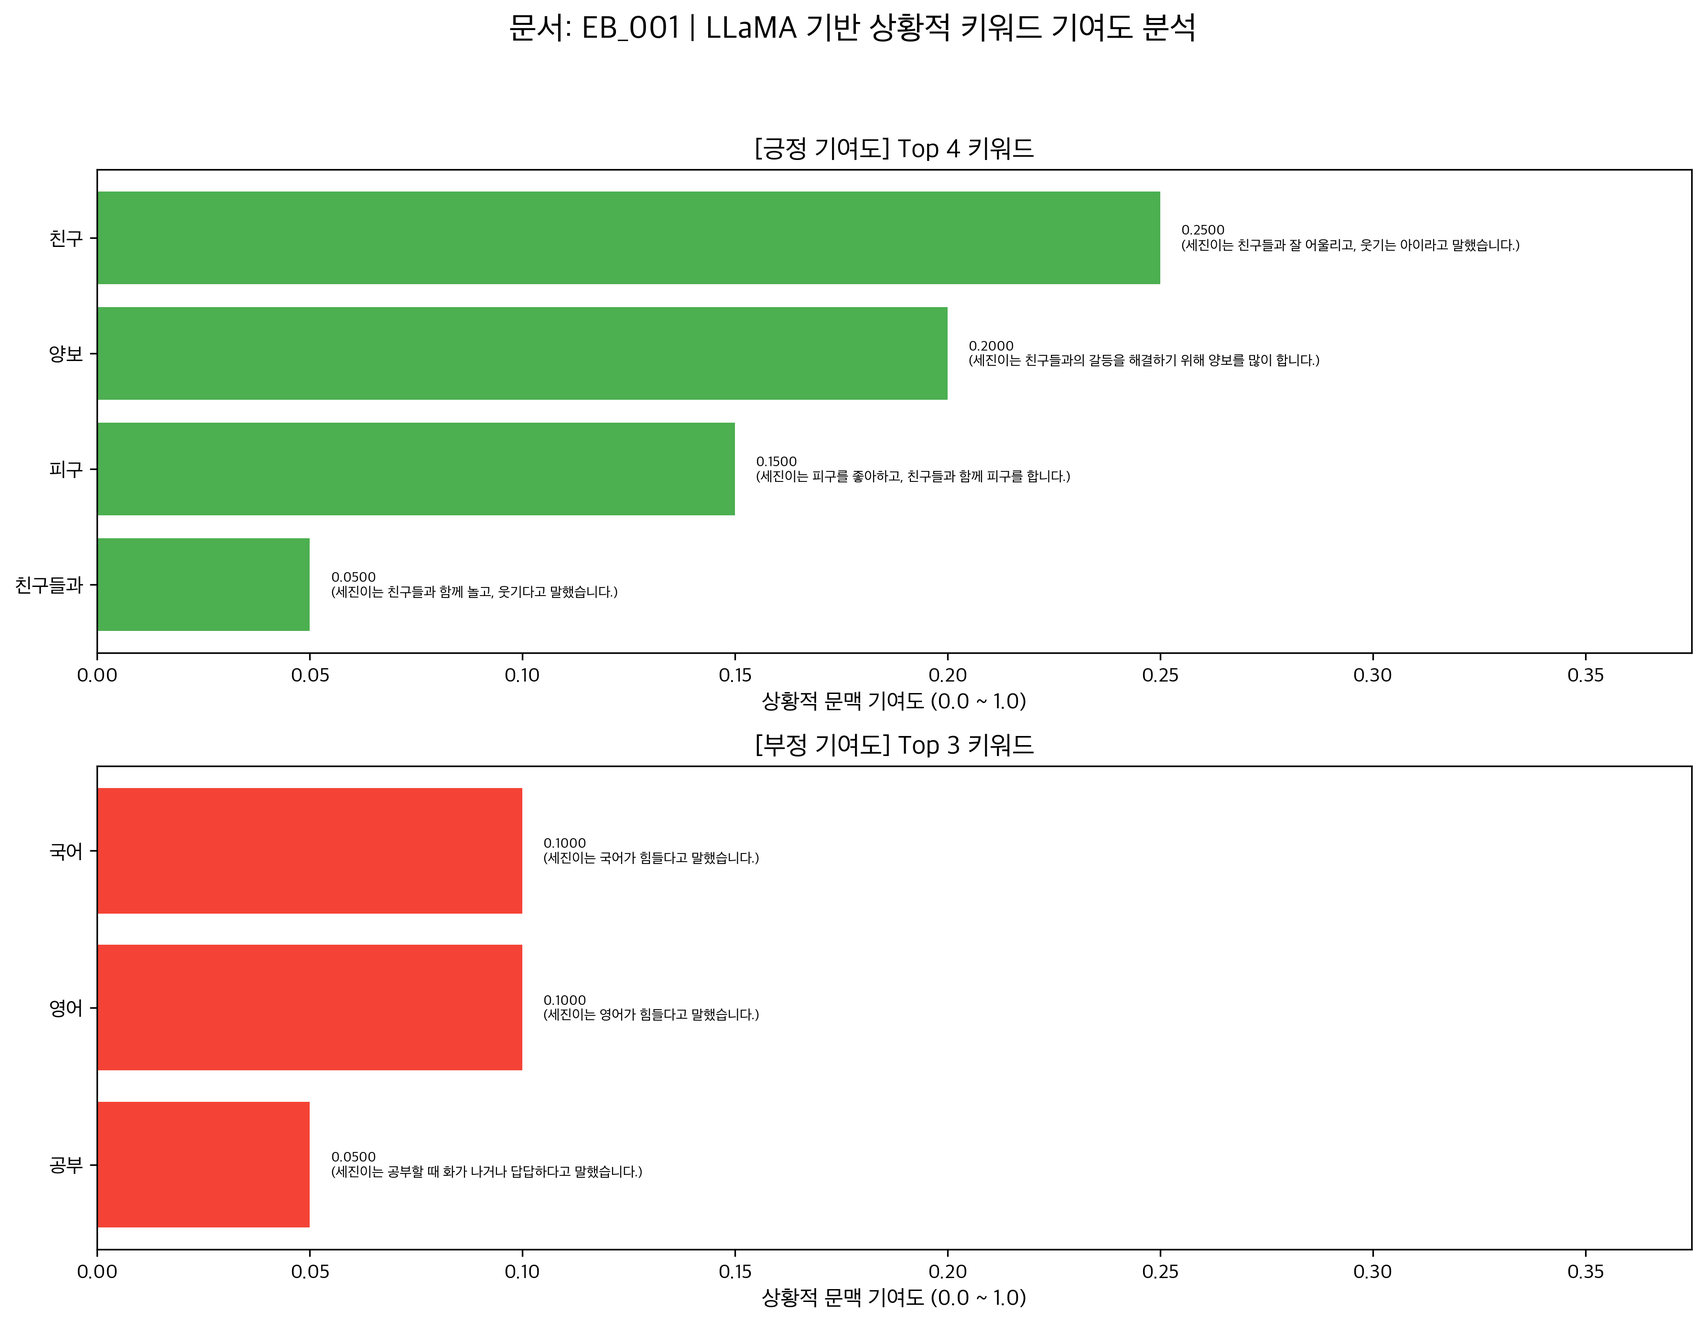
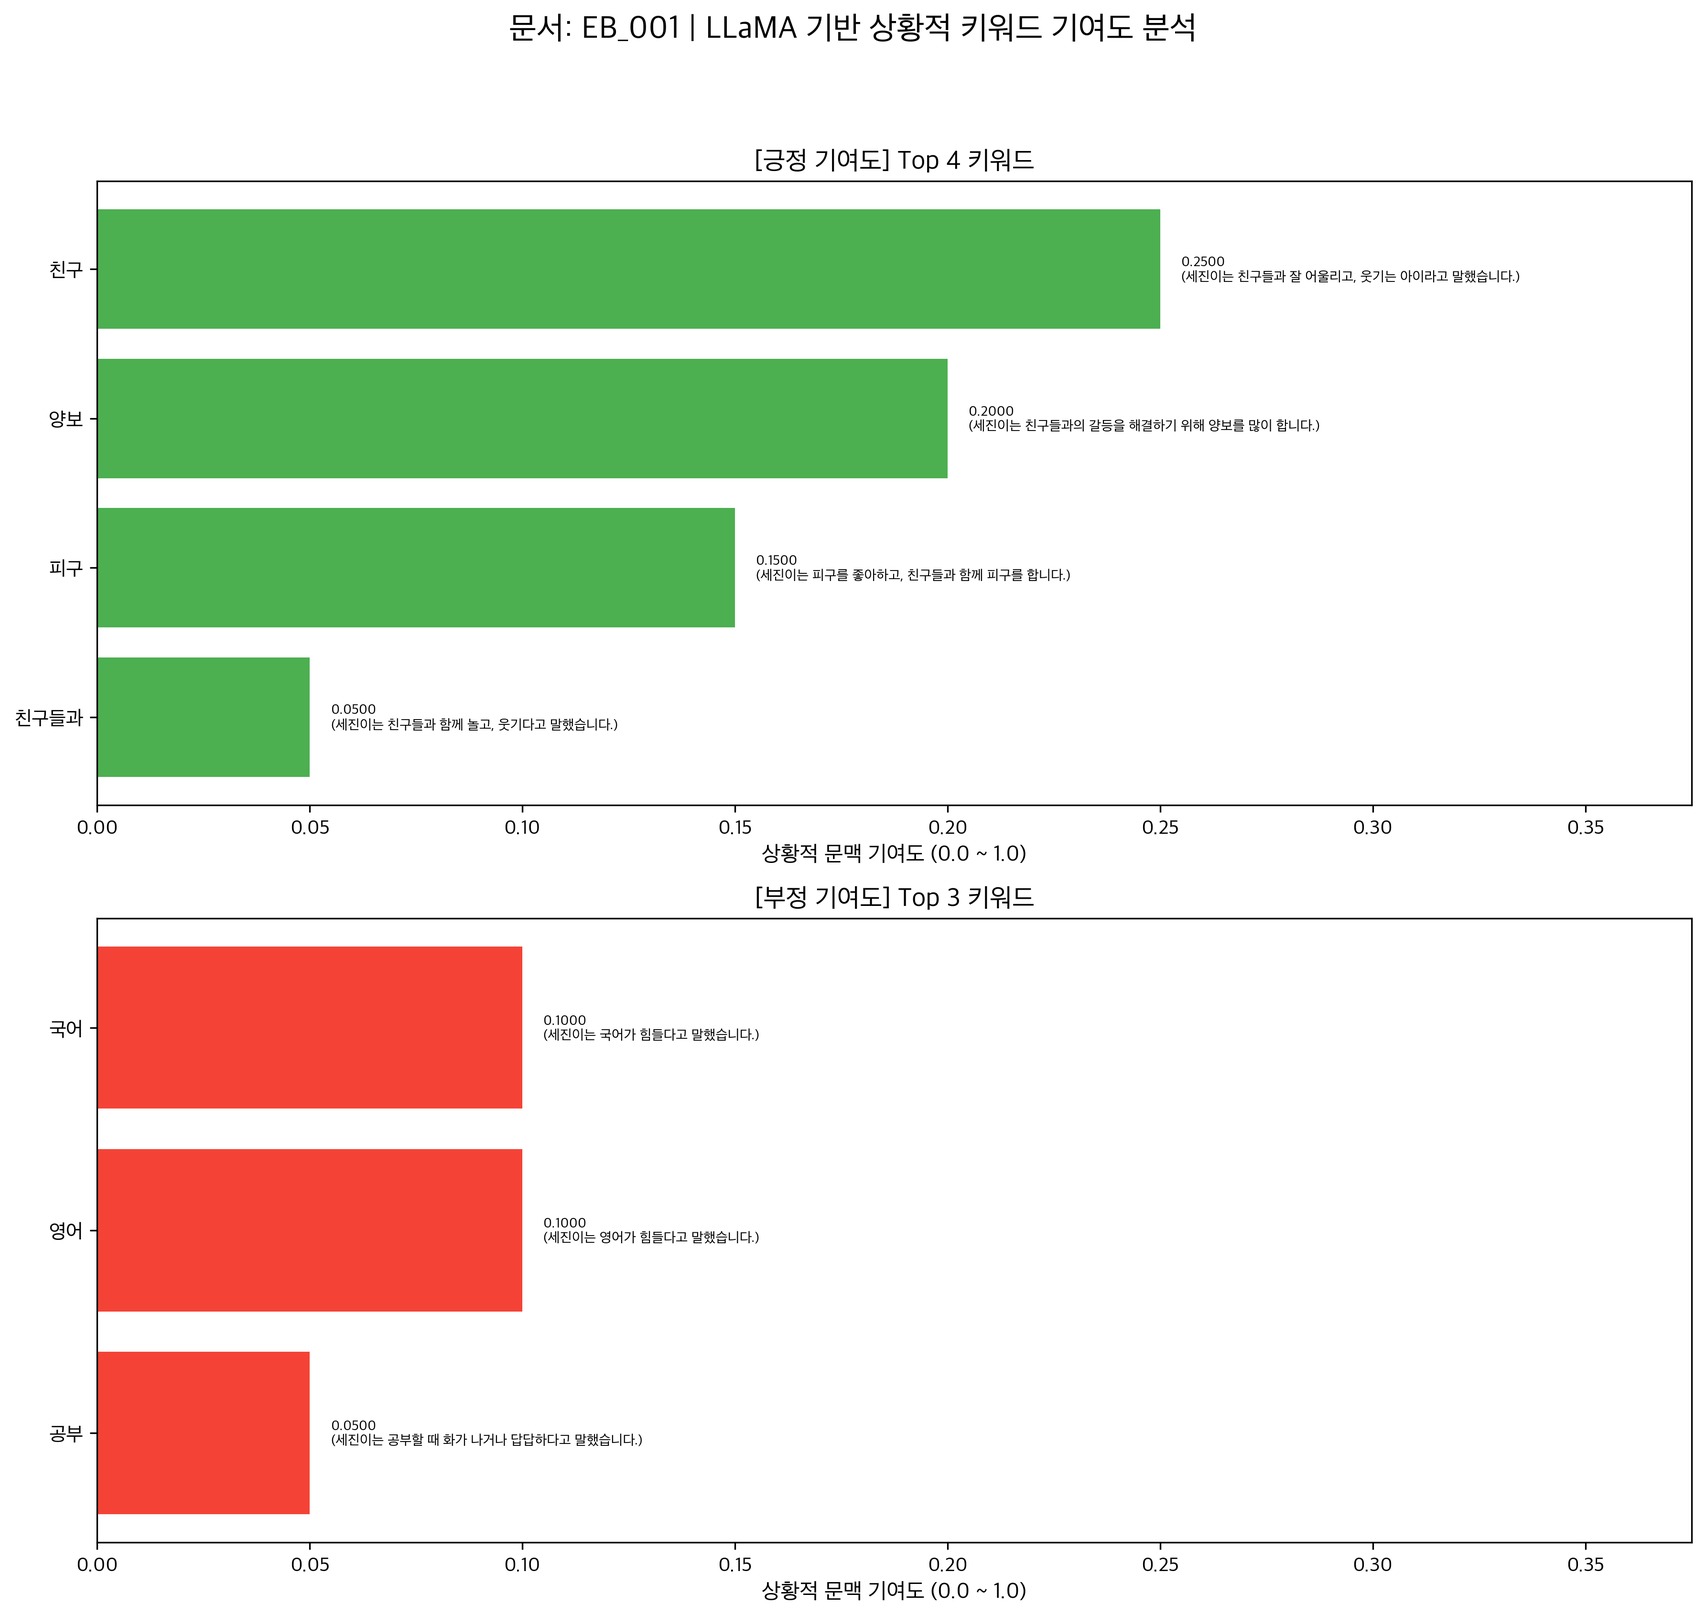
output file upgrade

diff --git a/src/step6_virtualization_emotionWord.py b/src/step6_virtualization_emotionWord.py
@@ -1,6 +1,9 @@
 """
 step6_visualizer.py: LLaMA 3 분석 결과를 기반으로 요청된 차트 시각화 및 폴더 정리
-- LLaMA 3의 추론 감성 및 문맥 가중치를 활용하여 시각화
+- 1. 워드클라우드: 감성별 색상 적용.
+- 2. 바 차트: 키워드 15개 이상 수용 가능.
+- 3. 파이 차트: 최종 감성 극성 키워드의 가중치 비율로 분할 표시.
+- 4. 요약: LLaMA가 생성한 최소 5문장 이상 요약 텍스트 출력.
 """
 
 import os
@@ -8,16 +11,16 @@ import json
 from pathlib import Path
 import matplotlib.pyplot as plt
 import matplotlib.font_manager as fm
-from wordcloud import WordCloud
+from wordcloud import WordCloud # 🚨 WordCloud 라이브러리 다시 임포트
 import numpy as np
 from collections import defaultdict
 import networkx as nx 
-from collections import defaultdict
 
-# 파일 경로 설정 🚨 [수정 및 복구 지점] 🚨
+# 파일 경로 설정
 ATTENTION_DIR = 'output/attention'
 VISUAL_ROOT_DIR = 'output/visualization'
 os.makedirs(VISUAL_ROOT_DIR, exist_ok=True)
+
 
 class EmotionVisualizer:
     
@@ -41,15 +44,12 @@ class EmotionVisualizer:
                 plt.rcParams['font.family'] = fm.FontProperties(fname=font_path).get_name()
                 return font_path
         
-        print("❌ 한글 폰트를 찾을 수 없습니다. 그래프에 한글이 깨질 수 있습니다.")
         return None
     
     def load_json_file(self, file_path: str) -> dict:
         """JSON 파일 로드"""
         try:
-            if not os.path.exists(file_path): 
-                print(f"🛑 Error: 분석 파일 {file_path}을(를) 찾을 수 없습니다.")
-                return {}
+            if not os.path.exists(file_path): return {}
             with open(file_path, 'r', encoding='utf-8') as f:
                 return json.load(f)
         except Exception as e:
@@ -57,19 +57,23 @@ class EmotionVisualizer:
             return {}
 
     def create_summary_txt(self, analysis_data: dict, output_folder: str):
-        """인터뷰 요약 내용을 TXT 파일로 생성"""
-        # ... (로직 유지) ...
+        """인터뷰 요약 내용을 TXT 파일로 생성 (요청 반영: 문장형 요약)"""
+        
         primary_sentiment = analysis_data.get('primary_sentiment', '불명')
         confidence = analysis_data.get('confidence', 0.0)
+        summary_text = analysis_data.get('interview_summary', 'LLaMA 분석 요약 내용을 찾을 수 없습니다.') 
         
         summary_lines = [
             "==========================================",
-            f"🎯 LLaMA 3 분석 요약: {Path(output_folder).name}",
+            f"🎯 LLaMA 3 아동 심리 분석 보고서: {Path(output_folder).name}",
             "==========================================",
-            f"1. 최종 추론 감성: {primary_sentiment}",
-            f"2. 신뢰도 (BERT 기반): {confidence:.3f}",
+            f"최종 추론 감성 기조: {primary_sentiment} (BERT 기반 신뢰도: {confidence:.3f})",
             "",
-            "3. [핵심 키워드 및 상황적 기여 근거]",
+            "1. [인터뷰 내용 상세 요약]",
+            "------------------------------------------",
+            summary_text, 
+            "",
+            "2. [상황적 키워드 기여 근거]",
             "------------------------------------------"
         ]
         
@@ -88,22 +92,31 @@ class EmotionVisualizer:
         
         try:
             with open(summary_path, 'w', encoding='utf-8') as f:
-                f.write('\n'.join(summary_lines))
-            print(f"  ✅ [4] 인터뷰 요약 TXT 저장: {Path(summary_path).name}")
+                f.write('\n\n'.join(summary_lines))
+            print(f"  ✅ [4] 인터뷰 요약 TXT 저장: {Path(summary_path).name}") # 🚨 순서 4로 변경
         except Exception as e:
             print(f"❌ 요약 TXT 파일 저장 실패: {e}")
 
 
-    def create_wordcloud_chart(self, keywords: list, primary_sentiment: str, output_folder: str, filename: str):
-        """LLaMA 가중치를 크기로 반영한 워드클라우드"""
+    def create_wordcloud_chart(self, keywords: list, output_folder: str, filename: str): # 🚨 primary_sentiment 제거
+        """
+        LLaMA 가중치를 크기로 반영하고, 감성별로 색상을 다르게 표현하는 워드클라우드 (요청 반영)
+        """
         if not keywords: return
         
+        word_sentiment_map = {item['word']: item['sentiment_label'] for item in keywords}
         word_scores_dict = {item['word']: item['contribution_weight'] for item in keywords}
         
-        colors = {'긍정': '#4CAF50', '부정': '#F44336', '중립': '#9E9E9E', '복합': '#FFC107'}
+        colors_map = {
+            '긍정': '#4CAF50', # 초록색
+            '부정': '#F44336', # 빨간색
+            '중립': '#9E9E9E', # 회색
+            '복합': '#FFC107'  # 주황색 (복합 감성)
+        }
         
         def color_func(word, font_size, position, orientation, random_state=None, **kwargs):
-            return colors.get(primary_sentiment, '#9E9E9E')
+            sentiment = word_sentiment_map.get(word, '중립')
+            return colors_map.get(sentiment, '#9E9E9E') # 기본값 회색
         
         wordcloud = WordCloud(
             width=1200, height=800, background_color='white', font_path=self.font_path,
@@ -111,25 +124,25 @@ class EmotionVisualizer:
         ).generate_from_frequencies(word_scores_dict)
         
         plt.figure(figsize=(14, 10))
-        plt.imshow(wordcloud.recolor(color_func=color_func, random_state=3), interpolation='bilinear')
+        # 🚨 color_func 적용
+        plt.imshow(wordcloud.recolor(color_func=color_func, random_state=3), interpolation='bilinear') 
         plt.axis('off')
-        plt.title(f'LLaMA 기반 키워드 기여도 워드클라우드 (문서 극성: {primary_sentiment})', fontsize=16, fontweight='bold', pad=20)
+        plt.title(f'LLaMA 기반 키워드 감성별 워드클라우드', fontsize=16, fontweight='bold', pad=20)
         
         output_path = os.path.join(output_folder, f"{filename}_keyword_wordcloud.png")
         plt.savefig(output_path, dpi=300, bbox_inches='tight')
         plt.close()
-        print(f"  ✅ [3] 키워드 워드클라우드 저장: {Path(output_path).name}")
+        print(f"  ✅ [3] 키워드 감성별 워드클라우드 저장: {Path(output_path).name}") # 🚨 순서 3으로 변경
 
 
     def create_contribution_bar_chart(self, keywords: list, primary_sentiment: str, output_folder: str, filename: str):
         """
-        감성별 기여도 막대형 차트 (요청 구현: 근거 출력 및 X축 범위 조정)
+        감성별 기여도 막대형 차트 (키워드 수량 증가 반영)
         """
         # 1. 감성별로 키워드 분리 및 정렬
         grouped_keywords = defaultdict(list)
         for item in keywords:
             sentiment = item.get('sentiment_label', '중립') 
-            # contribution_weight 필드가 없으면 0으로 처리 (오류 방지)
             item['contribution_weight'] = item.get('contribution_weight', 0.0) 
             grouped_keywords[sentiment].append(item)
         
@@ -143,19 +156,18 @@ class EmotionVisualizer:
         num_charts = len(grouped_keywords)
         if num_charts == 0: return
 
-        fig, axes = plt.subplots(num_charts, 1, figsize=(12, 4.5 * num_charts))
+        fig, axes = plt.subplots(num_charts, 1, figsize=(12, 5.5 * num_charts))
         if num_charts == 1: axes = [axes]
         
         fig.suptitle(f'문서: {filename} | LLaMA 기반 상황적 키워드 기여도 분석', 
                      fontsize=16, fontweight='bold', y=1.02)
         
-        # 최대 가중치 기준으로 X축 범위 설정
         max_weight = max(item['contribution_weight'] for item_list in grouped_keywords.values() for item in item_list) if grouped_keywords else 0.1
         
         plot_index = 0
         for sentiment in sentiment_order:
             if sentiment in grouped_keywords:
-                data = grouped_keywords[sentiment][:10]
+                data = grouped_keywords[sentiment] 
                 words = [item['word'] for item in data]
                 weights = [item['contribution_weight'] for item in data]
                 reasons = [item.get('reason', '') for item in data]
@@ -166,17 +178,14 @@ class EmotionVisualizer:
                 ax.set_xlabel('상황적 문맥 기여도 (0.0 ~ 1.0)', fontsize=11)
                 ax.invert_yaxis()
                 
-                # 🚨 [수정 반영] X축 범위 조정 및 상세 근거(Reason) 출력
-                ax.set_xlim(right=max_weight * 1.5) # 최대 가중치의 150%로 설정
+                ax.set_xlim(right=max_weight * 1.5) 
                 
                 for bar, weight, reason in zip(bars, weights, reasons):
                     text = f'{weight:.4f}'
                     if reason:
-                        # 긴 근거 텍스트를 랩핑하여 가독성 확보
                         reason_wrapped = '\n'.join([reason[i:i+35] for i in range(0, len(reason), 35)])
                         text += f'\n({reason_wrapped})'
                     
-                    # 출력 위치를 막대의 오른쪽 끝으로 설정
                     ax.text(bar.get_width() + 0.005, bar.get_y() + bar.get_height()/2, 
                             text, va='center', fontsize=7, ha='left')
                 
@@ -190,43 +199,64 @@ class EmotionVisualizer:
 
 
     def create_sentiment_pie_chart(self, primary_sentiment: str, confidence: float, output_folder: str, filename: str):
-        """최종 감성과 신뢰도를 보여주는 원형 차트"""
+        """
+        최종 감성과 그 감성에 기여한 키워드별 가중치를 보여주는 원형 차트 (요청 반영)
+        """
+        keywords = analysis_data.get('contextual_keywords', [])
         
-        labels_map = {'긍정': '긍정', '부정': '부정', '중립': '중립', '복합': '복합'}
-        colors_map = {'긍정': '#4CAF50', '부정': '#F44336', '중립': '#9E9E9E', '복합': '#FFC107'}
+        # 1. 최종 감성(primary_sentiment)과 일치하는 키워드만 필터링
+        relevant_keywords = [
+            item for item in keywords 
+            if item.get('sentiment_label') == primary_sentiment and item.get('contribution_weight', 0) > 0.0
+        ]
         
-        sentiment = labels_map.get(primary_sentiment, '중립')
-        color = colors_map.get(primary_sentiment, '#9E9E9E')
+        if not relevant_keywords:
+            print(f"🛑 {primary_sentiment}에 기여한 키워드가 없어 파이 차트 생략.")
+            return
+
+        # 2. 파이 차트 데이터 준비
+        labels = [f"{item['word']} ({item['contribution_weight']:.2f})" for item in relevant_keywords]
+        sizes = [item['contribution_weight'] for item in relevant_keywords]
+        
+        # 3. 색상 설정 (통일된 색상 톤 사용)
+        main_color = {'긍정': '#4CAF50', '부정': '#F44336', '중립': '#9E9E9E', '복합': '#FFC107'}.get(primary_sentiment, '#9E9E9E')
+        cmap = plt.cm.get_cmap('Greens' if primary_sentiment == '긍정' else 
+                                ('Reds' if primary_sentiment == '부정' else 
+                                 'coolwarm'))
+        
+        colors = cmap(np.linspace(0.4, 0.8, len(sizes))) 
 
         plt.figure(figsize=(10, 8))
         
-        labels = [f'{sentiment}']
-        sizes = [1] 
-        colors = [color]
-
-        plt.pie(
+        wedges, texts, autotexts = plt.pie(
             sizes, labels=labels, colors=colors, startangle=90,
-            autopct=lambda p: f'100.0%\n(신뢰도: {confidence*100:.1f}%)',
-            textprops={'fontsize': 14, 'fontweight': 'bold', 'color': 'black'}
+            autopct='%1.1f%%',
+            textprops={'fontsize': 10, 'color': 'black'}
         )
-        plt.title(f'LLaMA 기반 최종 감성 추론 결과 ({sentiment})', fontsize=14, fontweight='bold', pad=20)
+        
+        plt.text(0, 0, 
+                 f'전체 감성: {primary_sentiment}\n(신뢰도: {confidence*100:.1f}%)', 
+                 ha='center', va='center', fontsize=12, fontweight='bold', color='black',
+                 bbox=dict(facecolor='white', alpha=0.7, edgecolor='none', boxstyle='round,pad=0.5'))
+        
+        plt.title(f'최종 감성 "{primary_sentiment}" 기여 키워드 가중치 비율', fontsize=14, fontweight='bold', pad=20)
         plt.tight_layout()
         
         output_path = os.path.join(output_folder, f"{filename}_sentiment_piechart.png")
         plt.savefig(output_path, dpi=300, bbox_inches='tight')
         plt.close()
-        print(f"  ✅ [2] 감성 비율 원형 차트 저장: {Path(output_path).name}")
+        print(f"  ✅ [2] 최종 감성 키워드 파이 차트 저장: {Path(output_path).name}")
         
 
     def visualize_single_file(self, filename_prefix: str):
         """단일 파일 시각화 및 결과 폴더 정리"""
+        global analysis_data
         
         analysis_path = os.path.join(ATTENTION_DIR, f'{filename_prefix}_llama_analysis.json')
         analysis_data = self.load_json_file(analysis_path)
         
         if not analysis_data: return
         
-        # 🚨 [Step 6 핵심] 학생별 결과 폴더 생성
         output_folder = os.path.join(VISUAL_ROOT_DIR, filename_prefix)
         os.makedirs(output_folder, exist_ok=True)
         
@@ -234,21 +264,20 @@ class EmotionVisualizer:
         print(f" 시각화 중: {filename_prefix}")
         print('='*70)
         
-        # LLaMA 기반 데이터 추출
         primary_sentiment = analysis_data.get('primary_sentiment', '중립')
         confidence = analysis_data.get('confidence', 0.0)
         keywords = analysis_data.get('contextual_keywords', [])
         
-        # 1. 감성별 기여도 막대 차트 (요청 구현)
+        # 1. 감성별 기여도 막대 차트
         self.create_contribution_bar_chart(keywords, primary_sentiment, output_folder, filename_prefix)
         
-        # 2. 감성 비율 원형 차트 (요청 구현)
+        # 2. 최종 감성 키워드 파이 차트
         self.create_sentiment_pie_chart(primary_sentiment, confidence, output_folder, filename_prefix)
         
-        # 3. 워드클라우드 차트 (보조)
-        self.create_wordcloud_chart(keywords, primary_sentiment, output_folder, filename_prefix)
+        # 3. 키워드 감성별 워드클라우드 (복구 및 색상 적용)
+        self.create_wordcloud_chart(keywords, output_folder, filename_prefix) # 🚨 primary_sentiment 제거
         
-        # 4. 인터뷰 요약 TXT 생성 (요청 구현)
+        # 4. 인터뷰 요약 TXT 생성
         self.create_summary_txt(analysis_data, output_folder)
         
         print(f"\n   ✅ 시각화 완료! 결과 폴더: {output_folder}")

diff --git a/src/step4_keyword_extraction.py b/src/step4_keyword_extraction.py
@@ -11,7 +11,7 @@ from sentence_transformers import SentenceTransformer
 import torch.nn.functional as F
 
 # 🚨 사용자님의 Groq API Key 적용됨
-GROQ_API_KEY = "사용자 키를 입력하세요"
+GROQ_API_KEY = "type your key"
 LLAMA_MODEL_NAME = "llama-3.1-8b-instant" 
 
 # 파일 경로 설정
@@ -45,20 +45,20 @@ class LlamaSbertAnalyzer:
         system_prompt = (
             "당신은 아동 심리 및 행동 전문가입니다. 다음 인터뷰 전문을 분석하여, "
             "**아동의 일상생활 속의 행동, 관계, 갈등 상황**에만 집중하세요. "
-            "추출되는 키워드 목록에는 '좋다', '화나다', '기쁘다'와 같은 **순수 감정 동사나 형용사는 제외**하고, "
+            "추출되는 키워드 목록에는 '좋다', '화나다', '기쁘다'와 같은 순수 감정 동사나 형용사는 제외하고, "
             "감정을 유발하거나 표현하는 **행위(예: 양보, 피구, 국어공부, 친구)**만 키워드로 추출하세요."
             
             "\n\n[분석 기준]"
-            "1. **키워드 추출**: 문맥에 가장 중요하게 기여하는 **상황 키워드**를 추출하되, 총 10개의 키워드만 반환하세요."
+            "1. **키워드 추출**: 문맥에 가장 중요하게 기여하는 **상황 키워드**를 추출하되, **총 20개**의 키워드를 긍정, 부정, 중립, 복합을 최대한 포함하여 반환하세요." # 👈 키워드 수 15개로 증가
             "2. **가중치 부여**: 각 키워드가 전체 상황 이해에 기여하는 정도(0.0~1.0 사이의 가중치)를 추론하세요." 
             "3. **감성 분류**: 각 단어가 기여하는 최종 감성(긍정/부정/중립/복합)을 분류하세요."
-            "4. **최종 감성 결정**: 최종적으로 인터뷰의 **전체 감성 기조(primary_sentiment)**는 "
-            "추출된 키워드들의 'contribution_weight' 총합이 가장 높은 극성으로 결정되어야 합니다. "
-            "만약 긍정/부정 가중치 총합의 차이가 0.05 미만일 경우에만 '복합' 또는 '중립'으로 판단하세요. "
-            "현재 분석 결과는 긍정 기여도가 부정 기여도보다 **수치적으로 우위에 있음**을 명확히 설명해야 합니다."
+            "4. **요약 생성**: 인터뷰 내용을 아동 심리 전문가의 시각으로 **최소 5문장 이상**으로 길고 상세하게 요약하세요." # 👈 5문장 이상 요약 강제
+            "5. **최종 감성 결정**: 최종 감성 기조는 키워드 가중치 총합이 가장 높은 극성으로 결정되어야 합니다. 수치적 우위를 명확히 설명해야 합니다."
             
             "\n\n결과를 반드시 다음 JSON 형식으로만 반환하세요. 'confidence'와 'contribution_weight'는 0.00부터 1.00 사이여야 합니다."
-            "\n\nJSON 형식: {'primary_sentiment': '감성결과', 'confidence': 0.XX, 'contextual_keywords': ["
+            "\n\nJSON 형식: {'primary_sentiment': '감성결과', 'confidence': 0.XX, "
+            "'interview_summary': '전문적인 인터뷰 요약 (최소 5문장 이상)'," # 👈 요약 필드 명시
+            "'contextual_keywords': ["
             "{'word': '키워드', 'contribution_weight': 0.XX, 'sentiment_label': '긍정/부정/중립/복합', 'reason': '이 단어가 감성결과에 기여한 자세한 근거와 이유 (인터뷰 내용 기반)'}"
             ", ...]}" 
         )
